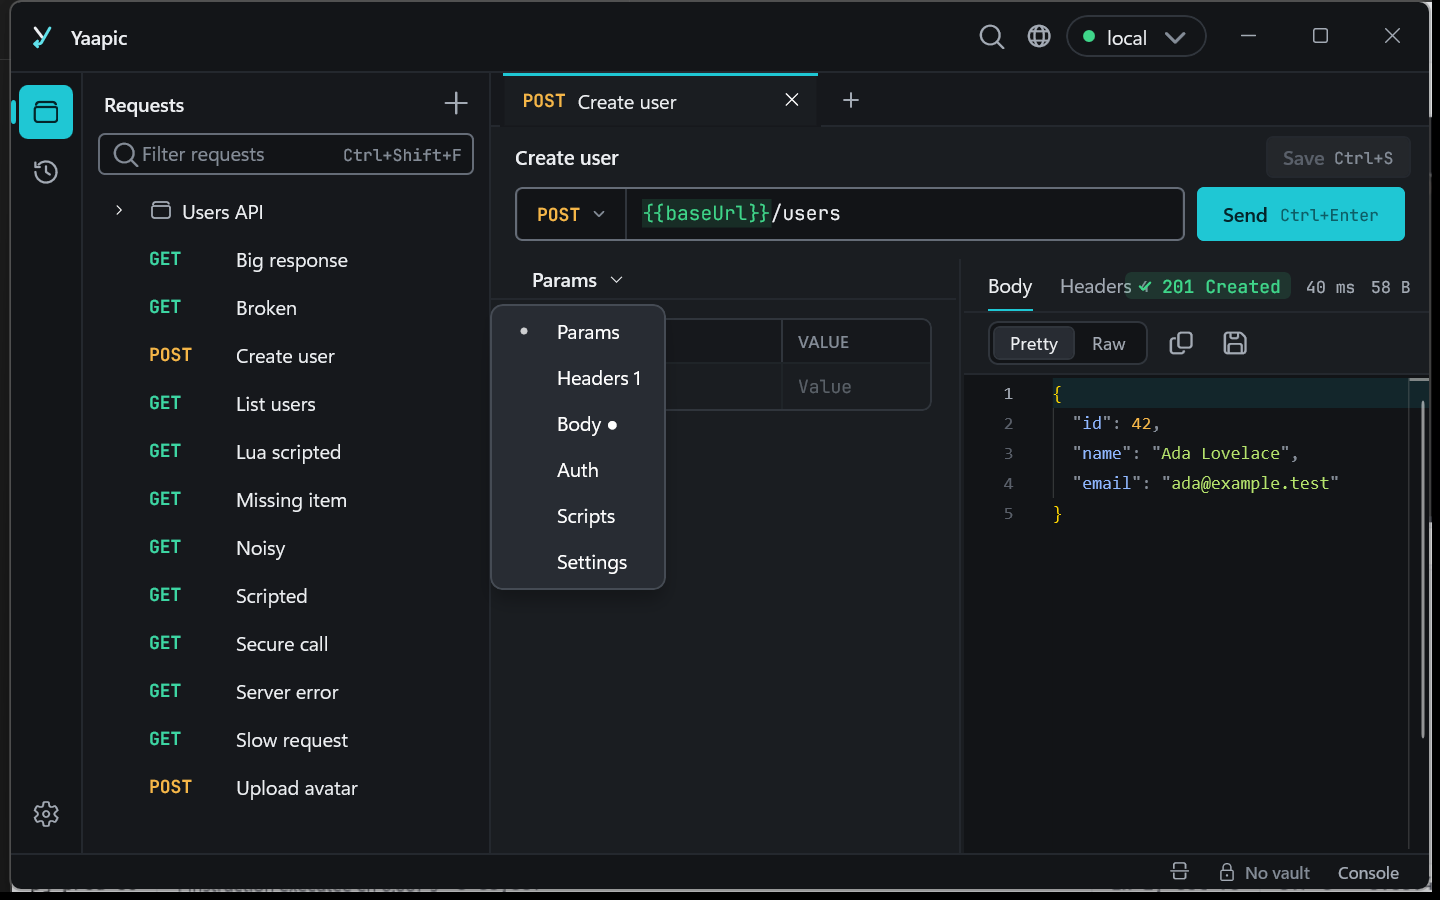
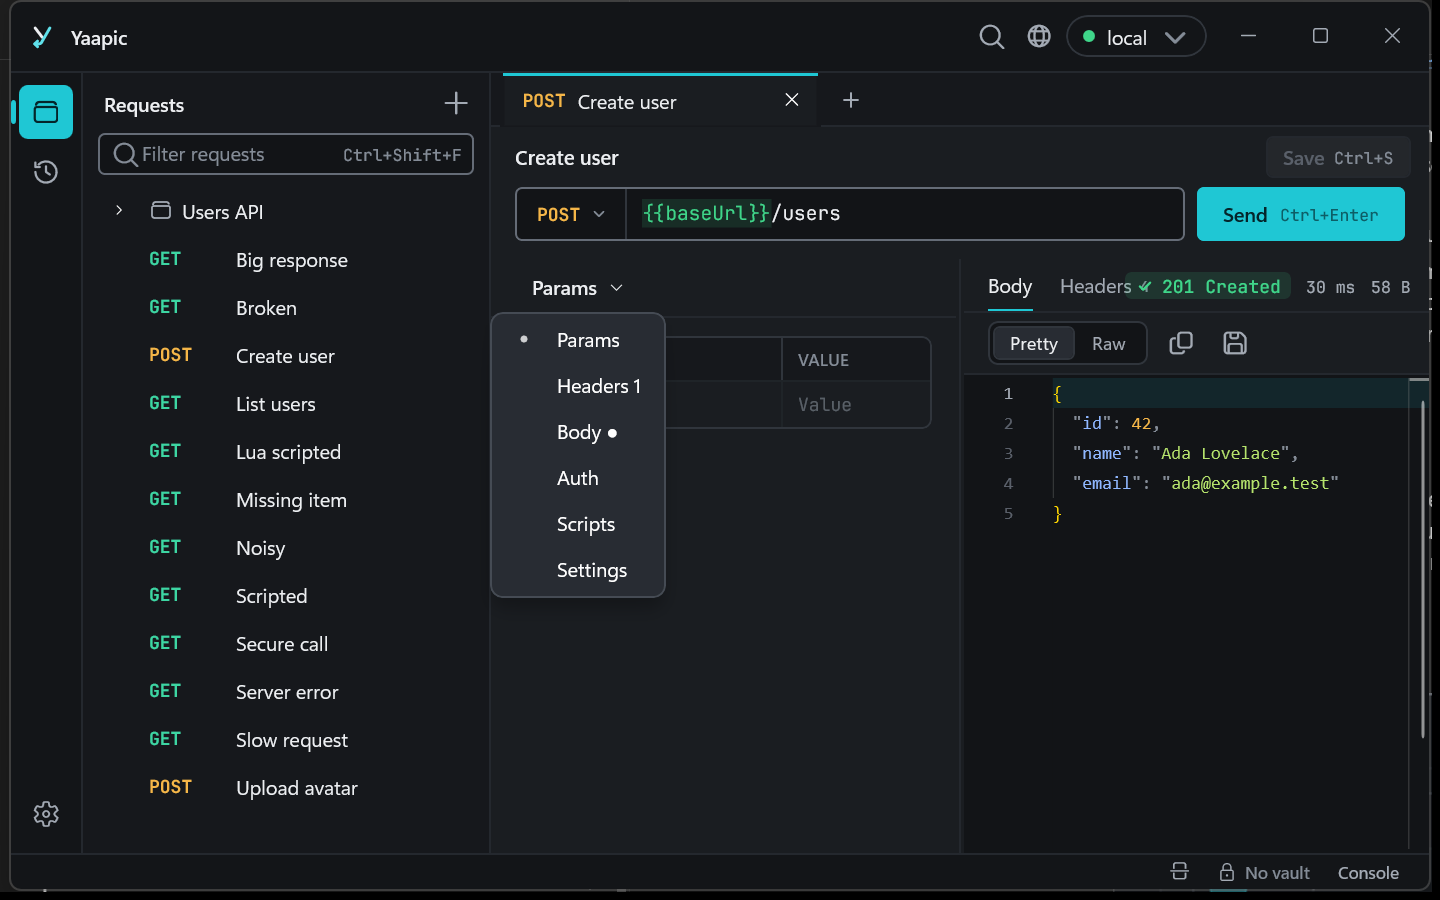
style: add a margin between the section drop-down and the separator
The compact Params drop-down gets 5 px above and 7 px below on WinUI, and the Avalonia overflow bar is 38 px high with the button
top aligned. Screenshots refreshed.

diff --git a/src/Yaapic.App.WinUI/Views/RequestEditorView.xaml b/src/Yaapic.App.WinUI/Views/RequestEditorView.xaml
@@ -133,7 +133,7 @@
     <Border x:Name="SectionTabs" Grid.Row="2" Grid.ColumnSpan="3" Padding="16,0" BorderBrush="{ThemeResource YaapicBorderSubtleBrush}" BorderThickness="0,0,0,1">
       <Grid>
       <Button x:Name="TabOverflow" Visibility="Collapsed" Style="{StaticResource YaapicSubtleButtonStyle}" HorizontalAlignment="Left"
-              VerticalAlignment="Center" MinHeight="0" Height="26" Padding="10,0" AutomationProperties.Name="Request sections">
+              VerticalAlignment="Center" Margin="0,5,0,7" MinHeight="0" Height="26" Padding="10,0" AutomationProperties.Name="Request sections">
         <StackPanel Orientation="Horizontal" Spacing="8">
           <TextBlock x:Name="TabOverflowLabel" VerticalAlignment="Center"/>
           <FontIcon Glyph="&#xE70D;" FontSize="10" VerticalAlignment="Center"/>

diff --git a/src/Yaapic.App.Avalonia/Views/RequestEditorView.axaml.cs b/src/Yaapic.App.Avalonia/Views/RequestEditorView.axaml.cs
@@ -85,7 +85,7 @@ public sealed partial class RequestEditorView : UserControl
 
         _compactSections = _stripWidth + 16 > Sections.Bounds.Width;
         Sections.Classes.Set("compact", _compactSections);
-        Sections.Margin = new global::Avalonia.Thickness(0, _compactSections ? 32 : 0, 0, 0);
+        Sections.Margin = new global::Avalonia.Thickness(0, _compactSections ? 38 : 0, 0, 0);
         SectionsOverflow.IsVisible = _compactSections;
         UpdateSectionsOverflowLabel();
     }
